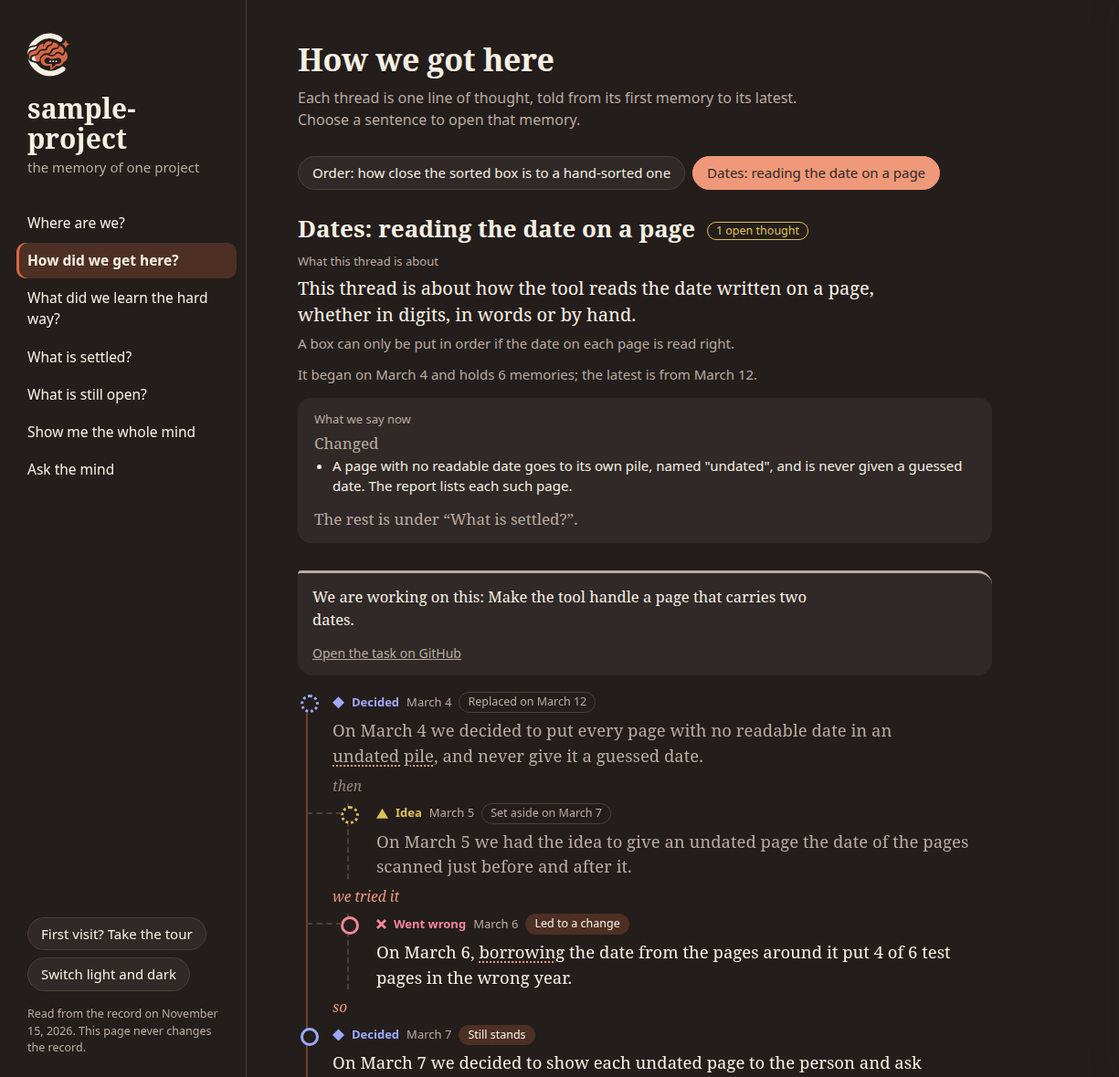
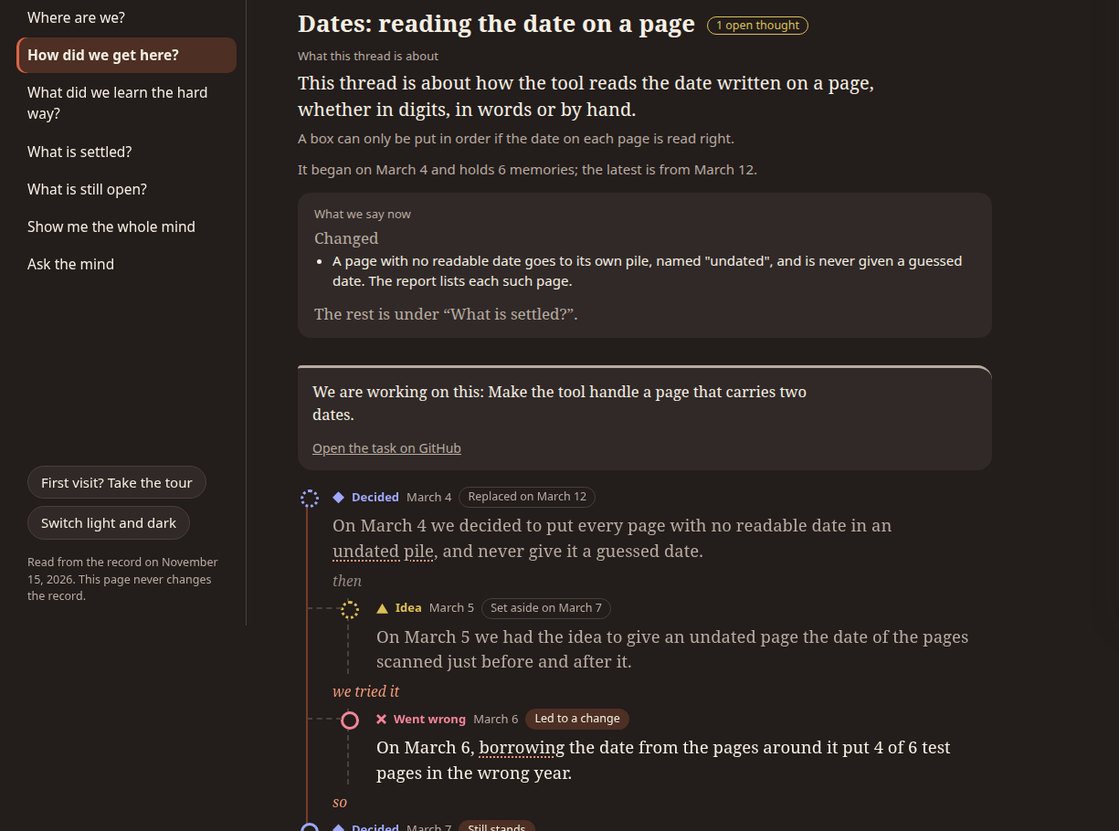
Apply the docs review and shorten the story pictures

diff --git a/skills/recortex/page/mind.css b/skills/recortex/page/mind.css
@@ -1,4 +1,4 @@
-:root{--fog:#FCF8F1;--sheet:#FFFFFF;--ink:#302927;--quiet:#6E625D;--rule:#E7DDCE;--thread:#B04A2A;--brand:#D76744;--wash:#F8E4D9;
+:root{--fog:#FCF8F1;--sheet:#FFFFFF;--ink:#302927;--quiet:#6E625D;--rule:#E7DDCE;--thread:#B04A2A;--brand:#D76744;--wash:#FAEAE1;
 --found:#17788A;--decided:#3D4FCF;--wrong:#B4233C;--idea:#836706;--asked:#7748B8;--fixed:#A8336F;--paused:#6E625D;
 --serif:Charter,"Bitstream Charter","Sitka Text",Cambria,"Noto Serif",Georgia,serif;
 --sans:system-ui,-apple-system,"Segoe UI",Roboto,"Noto Sans","Liberation Sans",sans-serif}

diff --git a/tests/test_scripts.py b/tests/test_scripts.py
@@ -7794,6 +7794,8 @@ class MindPageTests(MindSandbox):
             for name in ("ink", "quiet", "thread", "found", "decided", "wrong", "idea", "asked", "fixed", "paused"):
                 for ground in ("fog", "sheet"):
                     self.assertGreaterEqual(contrast(tokens[name], tokens[ground]), 4.5, (name, ground, tokens[name]))
+            for name in ("ink", "quiet", "thread"):  # chips, the active way in and the reminder fold sit on --wash
+                self.assertGreaterEqual(contrast(tokens[name], tokens["wash"]), 4.5, (name, "wash", tokens[name]))
         # the contrast function itself: black on white is 21 to 1, and a mid gray fails
         self.assertAlmostEqual(21.0, contrast("#000000", "#FFFFFF"), places=3)
         self.assertLess(contrast("#D76744", "#FCF8F1"), 4.5)  # why the brand color is never used for text
@@ -9007,6 +9009,7 @@ class DocsRecordTests(Sandbox):
             json.dump({"repo": self.repo_name, "hub": 4, "profiles": ["software", "research"]}, handle)
         trusted = self.write("trusted-repos", "%s octo-dev\n" % self.repo_name)
         self.env = {"CLAUDE_PROJECT_DIR": self.project, "RECORTEX_TRUSTED_FILE": trusted}
+        shutil.copy(os.path.join(ROOT, "docs", "pictures", "state.json"), self.state)  # the record's own fake GitHub
 
     def write(self, name, text):
         path = os.path.join(self.dir, name)
@@ -9067,6 +9070,21 @@ class DocsRecordTests(Sandbox):
             self.assertIn(sentence, words)
         self.assertIn("Still open" + STORY[-1], words)  # the chip before the last sentence
         self.assertNotIn("tinycsv", text.lower())
+        fixture = json.loads(recortex.read_text(os.path.join(FIXTURES, "repo-state.json")))
+        for issue in fixture["issues"].values():  # nothing of the tests' fake repository reaches the docs
+            self.assertNotIn(issue["title"], text)
+        self.assertNotIn("tests/fixtures", recortex.read_text(os.path.join(ROOT, "docs", "pictures", "make.sh")))
+
+    def test_the_brief_in_the_readme_is_what_the_record_prints(self):
+        self.build()
+        printed = self.script("hooks.py", "--print")
+        self.assertEqual(0, printed.returncode, printed.stdout + printed.stderr)
+        readme = recortex.read_text(os.path.join(ROOT, "README.md"))
+        sample = readme.split("```text\n", 1)[1].split("```", 1)[0].strip().split("\n")
+        clock = lambda line: re.sub(r"synced \S+ \(UTC\), \d+ minutes? old", "synced (UTC), old", line)
+        lines = [clock(line) for line in printed.stdout.split("\n")]
+        for line in sample:
+            self.assertIn(clock(line), lines, line)
 
 
 def github_slug(heading):
@@ -9095,7 +9113,10 @@ class DocsTests(unittest.TestCase):
         text = self.text("README.md")
         self.assertLess(len(text.split()), 1000)
         self.assertIn("Project memory that survives every session.", text)
-        self.assertNotIn("**", text)  # no bold in the README
+        self.assertNotIn("**", re.sub(r"```.*?```", "", text, flags=re.S))  # no bold in the README's prose
+        for name in ("how-it-works.md", "reference.md"):
+            self.assertNotIn("**", self.text(os.path.join("docs", name)), name)  # no bold list openers in the pages
+            self.assertNotIn("\n\n\n", self.text(os.path.join("docs", name)), name)
 
     def test_every_relative_link_and_picture_resolves(self):
         found = 0
@@ -9165,6 +9186,30 @@ class DocsTests(unittest.TestCase):
         self.assertEqual({"mr-eyes/recortex", "octo-org/sample-project"}, found)
         for path in self.files():
             self.assertNotIn("example-org", self.text(path), path)
+
+    def test_the_board_drawing_promises_no_more_than_the_design(self):
+        for path in self.files():
+            self.assertNotIn("the memory that put it there", self.text(path), path)
+        for mode in ("light", "dark"):
+            texts = re.findall(r">([^<>]+)</text>", self.text(os.path.join("assets", "board-%s.svg" % mode)))
+            self.assertFalse([t for t in texts if t.startswith("Every card")], mode)  # no card or move without a memory
+            self.assertNotIn("Thread: hub", texts)  # a task's thread is a topic; the hub is the top, not a thread
+            self.assertNotIn("Why: merged", texts)  # a pull request's card has no Why
+            self.assertFalse([t for t in texts if t.startswith("Why: a decision")], mode)  # In Progress: a checkpoint
+            self.assertFalse([t for t in texts if t.endswith("\u2026")], mode)  # every title fits its card
+
+    def test_the_docs_write_american_english(self):
+        for path in self.files() + [os.path.join("assets", name) for name in os.listdir(os.path.join(ROOT, "assets"))
+                                    if name.endswith(".svg")]:
+            self.assertNotIn("takes a decision", self.text(path), path)
+
+    def test_the_record_shares_no_time_commit_or_version_with_the_built_in_example(self):
+        def read(folder):
+            return "\n".join(recortex.read_text(os.path.join(top, name)) for top, _, names in os.walk(folder)
+                             for name in names)
+        docs, example = read(DOCS_RECORD) + self.text("README.md"), read(EXAMPLE)
+        for pattern in (r"\b20\d\d-\d\d-\d\d[ T]\d\d:\d\d", r"\b[0-9a-f]{7}\b", r"\b\d+\.\d+\.\d+\b"):
+            self.assertEqual(set(), set(re.findall(pattern, docs)) & set(re.findall(pattern, example)), pattern)
 
     def test_the_story_in_the_readme_is_the_story_the_record_tells(self):
         text = self.text("README.md")
@@ -9246,6 +9291,8 @@ class PackagingTests(unittest.TestCase):
             dirs[:] = [d for d in dirs if d not in (".git", ".tmp", "__pycache__")]
             for name in files:
                 path = os.path.relpath(os.path.join(folder, name), ROOT).replace(os.sep, "/")
+                if path == ".git":
+                    continue  # in a worktree this is a file that points at the main checkout's folder
                 self.assertIsNone(earlier.search(path), path)  # no path keeps an earlier name
                 if name.endswith(".png"):
                     continue  # a picture holds no words; the docs test looks at what is drawn in the pictures' SVG files

diff --git a/docs/pictures/make_assets.py b/docs/pictures/make_assets.py
@@ -3,7 +3,7 @@
 import html, os
 OUT = os.path.join(os.path.dirname(os.path.abspath(__file__)), "..", "..", "assets")
 PAL = {
-    "light": dict(bg="#FCF8F1", sheet="#FFFFFF", ink="#302927", quiet="#6E625D", rule="#E7DDCE", brand="#D76744", deep="#B04A2A", wash="#F8E4D9"),
+    "light": dict(bg="#FCF8F1", sheet="#FFFFFF", ink="#302927", quiet="#6E625D", rule="#E7DDCE", brand="#D76744", deep="#B04A2A", wash="#FAEAE1"),
     "dark": dict(bg="#231D1B", sheet="#302927", ink="#F6EFE3", quiet="#B9ABA1", rule="#4B403B", brand="#D76744", deep="#F0997A", wash="#4D2F24"),
 }
 FONT = 'font-family="system-ui,-apple-system,Segoe UI,Roboto,Noto Sans,Liberation Sans,sans-serif"'
@@ -29,7 +29,7 @@ def how(p):
     b = []
     # column 1: the session
     b += [T(40, 44, "YOUR SESSION", 12, "quiet", 600, p=p), box(40, 60, 230, 208, p)]
-    for i, (mark, line) in enumerate((("found", "finds a result"), ("decided", "takes a decision"), ("wrong", "hits a failure"), ("idea", "has an idea"))):
+    for i, (mark, line) in enumerate((("found", "finds a result"), ("decided", "makes a decision"), ("wrong", "hits a failure"), ("idea", "has an idea"))):
         y = 100 + i * 42
         b += ['<circle cx="68" cy="%d" r="6" fill="%s"/>' % (y - 5, p["brand"]), T(86, y, line, 16, serif=True, p=p)]
     # arrow 1
@@ -59,10 +59,10 @@ def board(p):
     b = [T(32, 42, "sample-project record", 17, weight=600, p=p), T(928, 42, "Private", 12, "quiet", anchor="end", p=p),
          T(32, 66, "Board", 13, "deep", 600, p=p), T(86, 66, "Waiting on you", 13, "quiet", p=p), T(196, 66, "By thread", 13, "quiet", p=p),
          '<line x1="32" y1="72" x2="68" y2="72" stroke="%s" stroke-width="2.5"/>' % p["brand"]]
-    cols = (("Todo", [("Task: three trial boxes for asking", "Dates", None)]),
-            ("In Progress", [("Task: pages that carry two dates", "Dates", "a decision, March 7")]),
-            ("Waiting for a yes", [("Tag release 0.3.0", "hub", "the last pause")]),
-            ("Done", [("Add the question step", "Dates", "merged"), ("Task: ask the person, never guess", "Dates", None)]))
+    cols = (("Todo", [("Task: three trial boxes", "Thread: Dates", None)]),
+            ("In Progress", [("Task: pages with two dates", "Thread: Dates", "a checkpoint, March 11")]),
+            ("Waiting for a yes", [("Task: tag release 1.4.0", "Thread: Dates", "the last pause")]),
+            ("Done", [("Add the question step", "Pull request, merged", None), ("Task: ask, never guess", "Thread: Dates", "a result, March 9")]))
     for i, (name, cards) in enumerate(cols):
         x = 32 + i * 226
         b += [box(x, 88, 216, 186, p, fill="sheet", r=12, sw=1), T(x + 14, 114, name, 13.5, weight=600, p=p), T(x + 202, 114, str(len(cards)), 12, "quiet", anchor="end", p=p)]
@@ -70,11 +70,11 @@ def board(p):
         for title, thread, why in cards:
             h = 74 if why else 56
             b += [box(x + 10, y, 196, h, p, fill="bg", r=8, sw=1), T(x + 22, y + 22, title if len(title) < 27 else title[:25] + "…", 12.5, weight=600, p=p),
-                  T(x + 22, y + 41, "Thread: " + thread, 11.5, "quiet", p=p)]
+                  T(x + 22, y + 41, thread, 11.5, "quiet", p=p)]
             if why:
                 b += [T(x + 22, y + 59, "Why: " + why, 11.5, "deep", p=p)]
             y += h + 8
-    b += [T(32, 302, "Every card and every move comes from a memory in the record. The record stays the authority.", 13, "quiet", p=p)]
+    b += [T(32, 302, "Each card's column follows from the record, and the record stays the authority.", 13, "quiet", p=p)]
     return frame(960, 324, p, b, "A private GitHub Projects board whose cards and columns follow the record")
 
 os.makedirs(OUT, exist_ok=True)

diff --git a/CONTRIBUTING.md b/CONTRIBUTING.md
@@ -77,7 +77,7 @@ The dry run prints the commands issue by issue and makes no network call. In the
 - The agents in `agents/` never post to GitHub and never start another agent. The drafter's tools are file tools only. The reviewer and the auditor are read-only by instruction: they have Bash for read commands, so do not describe them as unable to write. New hook text is fixed wording plus validated numbers or names, or sits inside the data frame.
 - `SKILL.md` stays short. Detail goes into `references/`, and every reference file is linked from `SKILL.md`.
 - Names live in `names.py`: the plugin's name, the configuration file, the folder, the variable prefix and the workflow, current and from before the rename (`gh-issues-manager`, `.gh-issues-manager.json`, `GHIM_`, `ghim-triage.yml`). Plugin variables are read only through `names.env`, and no other module spells an earlier name, except `run_hook.sh`, which reads the earlier budget name itself; a test scans the tree for them. An earlier name that is still read has a test for the earlier name alone, the current one alone, and both. `renames` in `.claude-plugin/marketplace.json` is append-only history. The `ghim:` markers are the record format and are not renamed. The shared module is `recortex.py`, and the tests also honor `GHIM_TEST_KEEP`.
-- The mind page (`mind.py`, `mind_model.py`, `page/mind.css`, `page/mind.js`): every element goes through `E()`; record text is a text child only, never an attribute value, an element or attribute name, or part of the style or the script; an `href` is `anchor()` or `github_url()`, and no `url` or `image` column of the index is read; the script holds no record text and none of the calls that turn text into markup or reach the network (the page test lists them), and checks every id it reads from the page before a selector or a hash uses it; the style loads nothing. A new element or attribute name goes into `TAGS` or `ATTRS` and into the page test, and fixed wording of the model goes into `PHRASES` or `FIELD_NAMES`. What the page tells follows `index.memories` and the rules of `references/mind.md`, "Who is told".
+- The mind page (`mind.py`, `mind_model.py`, `page/mind.css`, `page/mind.js`, `page/icon.txt`): every element goes through `E()`; record text is a text child only, never an attribute value, an element or attribute name, or part of the style or the script; an `href` is `anchor()` or `github_url()`, and no `url` or `image` column of the index is read; the script holds no record text and none of the calls that turn text into markup or reach the network (the page test lists them), and checks every id it reads from the page before a selector or a hash uses it; the style loads nothing. A new element or attribute name goes into `TAGS` or `ATTRS` and into the page test, and fixed wording of the model goes into `PHRASES` or `FIELD_NAMES`. What the page tells follows `index.memories` and the rules of `references/mind.md`, "Who is told".
 - The field sheet's labels, sizes and characters live in `field_sheet.py` and move together with `references/fields.md`, the model sheets in `fields/` (a test holds their SHA-256 values), `tests/fixtures/field-sheets/` and the paragraph on field guidance in each of the three agent files. Approved text reaches a payload only through `field_sheet.state`, from the configuration the hook parsed once, and only in its own frame; no hook line outside that frame holds text or a name from a sheet, and `--doctor` prints field names only for an approved sheet. A sheet that breaks the form is refused, never cleaned. No sheet, model or form is loaded from a path a project names. The approvals go through `storage.py`, and the hooks only read them.
 - Examples use invented projects only.
 

diff --git a/docs/how-it-works.md b/docs/how-it-works.md
@@ -20,14 +20,12 @@ What lives in GitHub, what a session does with it, and what comes back after a c
 
 When what the deliverable says changes, the topic's body is edited in place; the dated comment that caused the change and GitHub's edit history are the trail. A result that leaves the deliverable leaves the body, and its section label comes off. Posted comments are never rewritten.
 
-
-
 ## The daily loop
 
-1. **Start.** The session reads the newest resume comment on the hub, then the open `active` issues, then the newest comments of the topics in play. With the hook this begins automatically.
-2. **Work.** When an experiment finishes, a decision is made, something fails or a change is merged, the session drafts a comment from the matching template, checks every number against its source file, lints the draft and posts it. The script reads the comment back from GitHub and compares it with the draft.
-3. **The deliverable text changes.** The topic's body is edited in place and its section labels follow its headings; the comment that caused the change is the record of why.
-4. **Stop.** The session posts a checkpoint on each active issue and a new resume comment on the hub.
+1. Start. The session reads the newest resume comment on the hub, then the open `active` issues, then the newest comments of the topics in play. With the hook this begins automatically.
+2. Work. When an experiment finishes, a decision is made, something fails or a change is merged, the session drafts a comment from the matching template, checks every number against its source file, lints the draft and posts it. The script reads the comment back from GitHub and compares it with the draft.
+3. The deliverable text changes. The topic's body is edited in place and its section labels follow its headings; the comment that caused the change is the record of why.
+4. Stop. The session posts a checkpoint on each active issue and a new resume comment on the hub.
 
 Before a new memory is written, `index.py query recall --issue N` shows the newest memories of its thread with their state, the open questions and untried ideas elsewhere, and the words the project has explained. The session writes the plain line first, links the memory to the earlier one it builds on when that link is true, and explains in a fold at its end any word that cannot be understood without the project. The linter checks the plain line, the links and their targets, the Evidence lines and the folds before anything is posted, and the post prints the new memory's id for the next link.
 

diff --git a/README.md b/README.md
@@ -79,11 +79,11 @@ An invented project sorts a box of scanned letters by the date written on each p
 Each sentence is one comment on a GitHub issue. The words between them are links the session recorded: this failure tested that idea, this decision came from that failure. Three weeks later a new session opens, and its first lines are, abridged:
 
 ```text
-recortex record brief for your-name/your-project (from the local index, 2 minutes old).
+recortex record brief for octo-org/sample-project (from the local index synced 2026-03-31T16:02:11Z (UTC), 2 minutes old).
 Open active issues: 1
 - #7 Task: pages that carry two dates
-Current focus: Release 0.3.0. The tool reads handwritten dates; pages that carry two dates are the last open item.
-Holds: Do not tag 0.3.0 until the project owner says so.
+**Current focus:** Release 1.4.0, which reads dates written by hand. Pages that carry two dates are what is left.
+**Holds:** The project owner says when 1.4.0 is tagged; until then, no tag.
 ```
 
 Before it writes about the undated pages, it reads that thread: the failure and the decision it caused. It does not try the borrowed dates again. The failure is in the record.
@@ -92,10 +92,10 @@ Before it writes about the undated pages, it reads that thread: the failure and 
 
 <picture>
   <source media="(prefers-color-scheme: dark)" srcset="assets/board-dark.svg">
-  <img src="assets/board-light.svg" alt="A board with the columns Todo, In Progress, Waiting for a yes and Done. Each card names its thread and the memory that put it there.">
+  <img src="assets/board-light.svg" alt="A board with the columns Todo, In Progress, Waiting for a yes and Done. A task's card names its thread, and the memory that put it in its column when there is one.">
 </picture>
 
-Optional, chosen at setup, and private. The record decides which column a card is in, and the board is brought up to date at each pause. If you move a card by hand, the session asks you before it changes anything, then records your answer.
+Optional, chosen at setup, and private. The record decides which column a card is in, and the board is brought up to date at each pause. If you move a card by hand, the session asks what the move means before it changes anything, then records your answer or puts the card back.
 
 ## Read more
 

diff --git a/docs/reference.md b/docs/reference.md
@@ -8,7 +8,7 @@ The plugin adds three agents for bulk and audit work, one tier below the main se
 
 ## The hooks and the CLAUDE.md snippet
 
-**Hooks.** Four hooks keep every session and subagent aware of the record, built from a local index of the issues (`scripts/index.py`, a SQLite file under `~/.cache/recortex` that can be rebuilt from GitHub at any time; hooks and terminal scripts use the same file):
+Hooks: Four hooks keep every session and subagent aware of the record, built from a local index of the issues (`scripts/index.py`, a SQLite file under `~/.cache/recortex` that can be rebuilt from GitHub at any time; hooks and terminal scripts use the same file):
 
 | Hook | Prints |
 |---|---|
@@ -19,7 +19,7 @@ The plugin adds three agents for bulk and audit work, one tier below the main se
 
 They print nothing when the project has no configuration file or the repository is not in your trusted list, and never write to GitHub. Set-up builds the index once (`index.py sync`); otherwise the first session builds it in the background and the brief arrives with its next prompt. In a project that is set up and trusted, a brief that cannot be produced is replaced by one line naming the reason. `python3 scripts/hooks.py --print` shows each payload and its size; `python3 scripts/hooks.py --doctor` shows why a brief is or is not shown: configuration, trust, storage folders with owner and mode, the index and the last sync failure. The plugin installs them. For a plain skill install, merge [`templates/settings-hook-snippet.json`](../skills/recortex/templates/settings-hook-snippet.json) into `.claude/settings.json` or `~/.claude/settings.json` and adjust the paths.
 
-**CLAUDE.md snippet.** [`templates/claude-md-snippet.md`](../skills/recortex/templates/claude-md-snippet.md) is a few lines for the project's CLAUDE.md that give every session the hub's location and the recording rules.
+The CLAUDE.md snippet: [`templates/claude-md-snippet.md`](../skills/recortex/templates/claude-md-snippet.md) is a few lines for the project's CLAUDE.md that give every session the hub's location and the recording rules.
 
 ## Scripts
 

diff --git a/docs/pictures/record/hub.md b/docs/pictures/record/hub.md
@@ -8,15 +8,15 @@ The current resume block is the newest comment on this issue that carries the re
 
 ## Project
 
-The sample project is a small tool that puts a box of scanned letters in order by the date written on each page. The goal of the current cycle is release 0.3.0, which reads handwritten dates, plus a short accuracy note that compares the sorted box with one sorted by hand. The project owner makes release decisions. Code lives in `octo-org/sample-project`; the practice pages live under `pages/practice/` in the same repository.
+The sample project is a small tool that puts a box of scanned letters in order by the date written on each page. The goal of the current cycle is release 1.4.0, which reads handwritten dates, plus a short accuracy note that compares the sorted box with one sorted by hand. The project owner makes release decisions. Code lives in `octo-org/sample-project`; the practice pages live under `pages/practice/` in the same repository.
 
-Times in this tracker are US Pacific time, written as 2026-03-04 14:10 PST. Times copied from GitHub or other tools in UTC are converted before they are written here.
+Times in this tracker are US Pacific time, written as 2026-03-04 08:40 PST. Times copied from GitHub or other tools in UTC are converted before they are written here.
 
 ## Map
 
 ```mermaid
 flowchart LR
-  REL["Release notes 0.3.0"] --> DATES["NEW-dates Dates"]
+  REL["Release notes 1.4.0"] --> DATES["NEW-dates Dates"]
   NOTE["Accuracy note"] --> ORDER["NEW-order Order"]
   DATES --> TASK["NEW-task-two-dates Two dates"]
   DATES --> ORDER
@@ -26,7 +26,7 @@ flowchart LR
 
 The issues whose bodies make up each section, sections in the order of each deliverable. A topic appears once for each section its body has. Numbers are not repeated here; they live in the bodies, each with its source.
 
-### Release notes 0.3.0
+### Release notes 1.4.0
 
 | Section | Issue | What its body covers |
 |---|---|---|

diff --git a/docs/pictures/record/topic-order.md b/docs/pictures/record/topic-order.md
@@ -14,7 +14,7 @@ The tool put 184 of the 200 pages of the large box in the same place as the pers
 
 Median share of pages, over 5 runs per box, that the tool puts in the same place as a person, for boxes of 20, 60 and 200 pages.
 
-![Share of pages the tool puts in the same place as a person, by size of box](https://github.com/octo-org/sample-project/blob/4f2a9c1/check/out/run-0304/same-place.png?raw=true)
+![Share of pages the tool puts in the same place as a person, by size of box](https://github.com/octo-org/sample-project/blob/7b3d0e2/check/out/run-0304/same-place.png?raw=true)
 
 ## Limitations
 
@@ -24,7 +24,7 @@ The comparison comes from one person and one set of boxes. How long the sort tak
 
 | Statement or number | Source |
 |---|---|
-| 184 of 200 pages in the same place, median of 5 runs; first and last page right on 3 of 3 boxes | `check/out/run-0304/summary.tsv`, commit 4f2a9c1 |
+| 184 of 200 pages in the same place, median of 5 runs; first and last page right on 3 of 3 boxes | `check/out/run-0304/summary.tsv`, commit 7b3d0e2 |
 | Boxes | practice set v1 under `pages/boxes/` |
-| Comparison method | `check/run.py`, commit 4f2a9c1 |
-| Figure same-place | data `check/out/run-0304/summary.tsv`; command `python check/plot.py check/out/run-0304/summary.tsv`; commit 4f2a9c1 |
+| Comparison method | `check/run.py`, commit 7b3d0e2 |
+| Figure same-place | data `check/out/run-0304/summary.tsv`; command `python check/plot.py check/out/run-0304/summary.tsv`; commit 7b3d0e2 |

diff --git a/docs/pictures/record/resume-1.md b/docs/pictures/record/resume-1.md
@@ -1,10 +1,10 @@
-### Resume block: 2026-03-04 16:40 PST
+### Resume block: 2026-03-04 12:05 PST
 
 <!-- ghim:resume:start -->
-**Last updated:** 2026-03-04 16:40 PST by the owner's Claude session
-**Current focus:** Release 0.3.0. The tool reads handwritten dates; pages that carry two dates are the last open item.
+**Last updated:** 2026-03-04 12:05 PST by the owner's Claude session
+**Current focus:** Release 1.4.0, which reads dates written by hand. Pages that carry two dates are what is left.
 **Active issues:** NEW-task-two-dates (pages that carry two dates).
-**Last decisions:** 2026-03-04 15:55 PST, undated pages get their own pile, see NEW-dates.
+**Last decisions:** 2026-03-04 11:25 PST, undated pages get their own pile, see NEW-dates.
 **Next actions:**
 
 | Action | Owner | Where |
@@ -13,5 +13,5 @@
 | Rerun the comparison with a hand-sorted box after the change | Claude session | NEW-order |
 | Choose a license before the release | the project owner | this hub |
 
-**Holds:** Do not tag 0.3.0 until the project owner says so.
+**Holds:** The project owner says when 1.4.0 is tagged; until then, no tag.
 <!-- ghim:resume:end -->

diff --git a/docs/pictures/record/topic-dates.md b/docs/pictures/record/topic-dates.md
@@ -31,7 +31,7 @@ Practice pages for which the tool reads the same date as a person, by what the p
 
 | Statement or number | Source |
 |---|---|
-| 41 of 53 pages read correctly; 12 fail, each with two dates | `pages/practice/report-4f2a9c1.txt`, practice set v2, commit 4f2a9c1 |
-| 6 of 6 pages with a date written as words read correctly | `pages/practice/report-4f2a9c1.txt`, commit 4f2a9c1 |
-| Undated pages get their own pile | `sorter/dates.py`, commit 4f2a9c1 |
-| Table practice | data `pages/practice/report-4f2a9c1.txt`; command `python pages/practice/run.py --summary`; commit 4f2a9c1 |
+| 41 of 53 pages read correctly; 12 fail, each with two dates | `pages/practice/report-7b3d0e2.txt`, practice set v2, commit 7b3d0e2 |
+| 6 of 6 pages with a date written as words read correctly | `pages/practice/report-7b3d0e2.txt`, commit 7b3d0e2 |
+| Undated pages get their own pile | `sorter/dates.py`, commit 7b3d0e2 |
+| Table practice | data `pages/practice/report-7b3d0e2.txt`; command `python pages/practice/run.py --summary`; commit 7b3d0e2 |

diff --git a/docs/pictures/record/result-order-1.md b/docs/pictures/record/result-order-1.md
@@ -1,9 +1,9 @@
-<!-- ghim:event type=result at=2026-03-04T14:10-08:00 -->
-### Result: 2026-03-04 14:10 PST - first comparison with a hand-sorted box
+<!-- ghim:event type=result at=2026-03-04T08:40-08:00 -->
+### Result: 2026-03-04 08:40 PST - first comparison with a hand-sorted box
 
 **In plain words, we found that:** the tool put 184 of the 200 pages of the large box in the same place as a person did
 
-**What ran:** `python check/run.py --repeat 5` at commit 4f2a9c1, output in `check/out/run-0304/`.
+**What ran:** `python check/run.py --repeat 5` at commit 7b3d0e2, output in `check/out/run-0304/`.
 
 **Configuration:** practice set v1 (boxes of 20, 60 and 200 pages), one laptop, one person's hand-sorted order.
 
@@ -17,7 +17,7 @@
 
 **Exclusions and failures:** None. All 15 runs finished.
 
-**Cost:** About 4 minutes of laptop time.
+**Cost:** One run of the sorter over the box, under a minute.
 
 **Not established:** How long a sort takes. Whether a second person would sort the boxes the same way.
 
